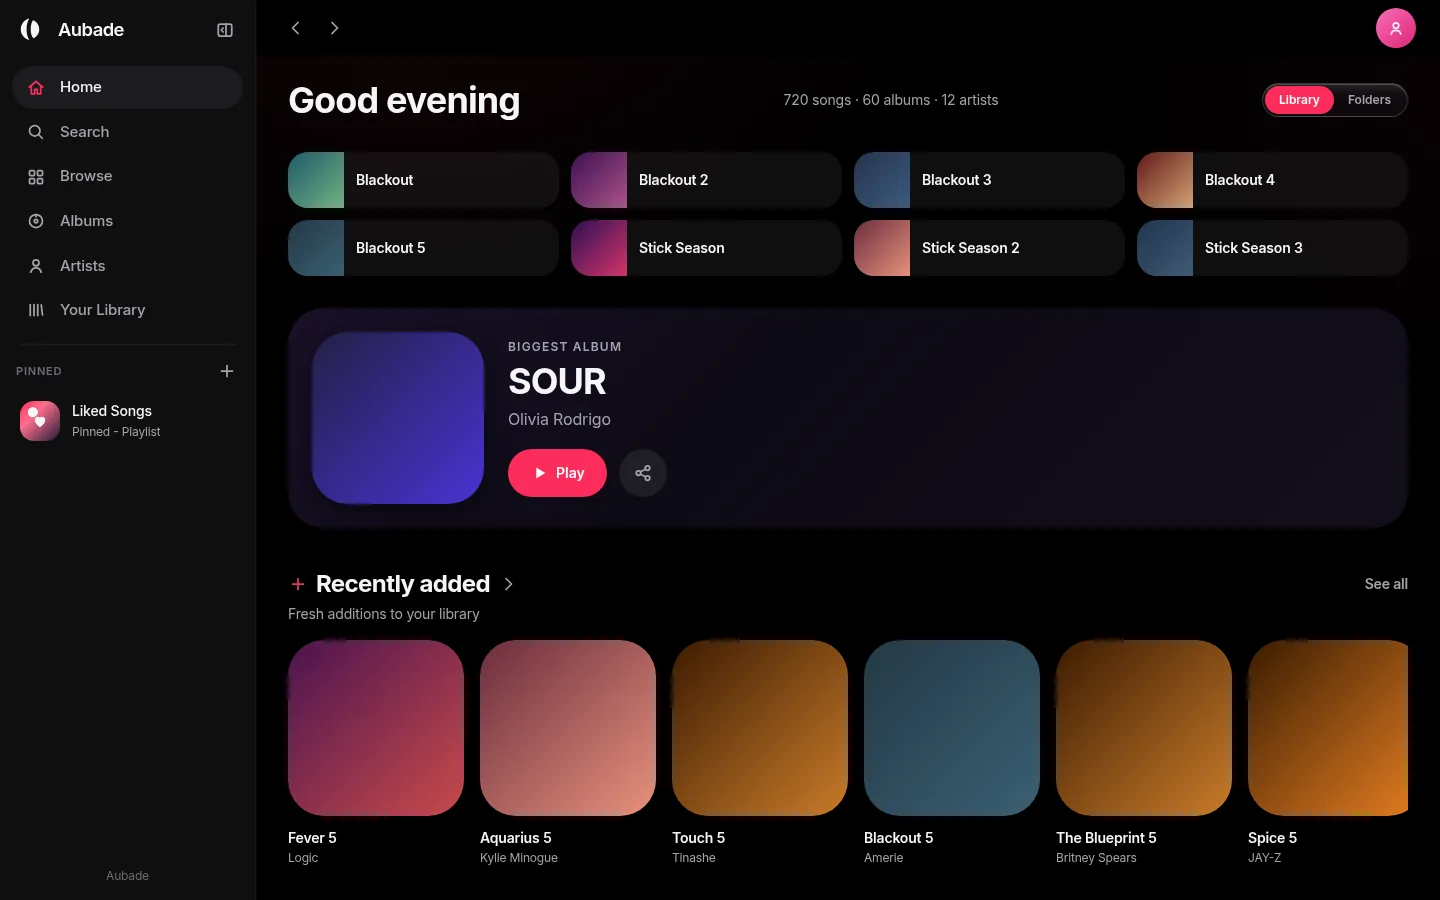
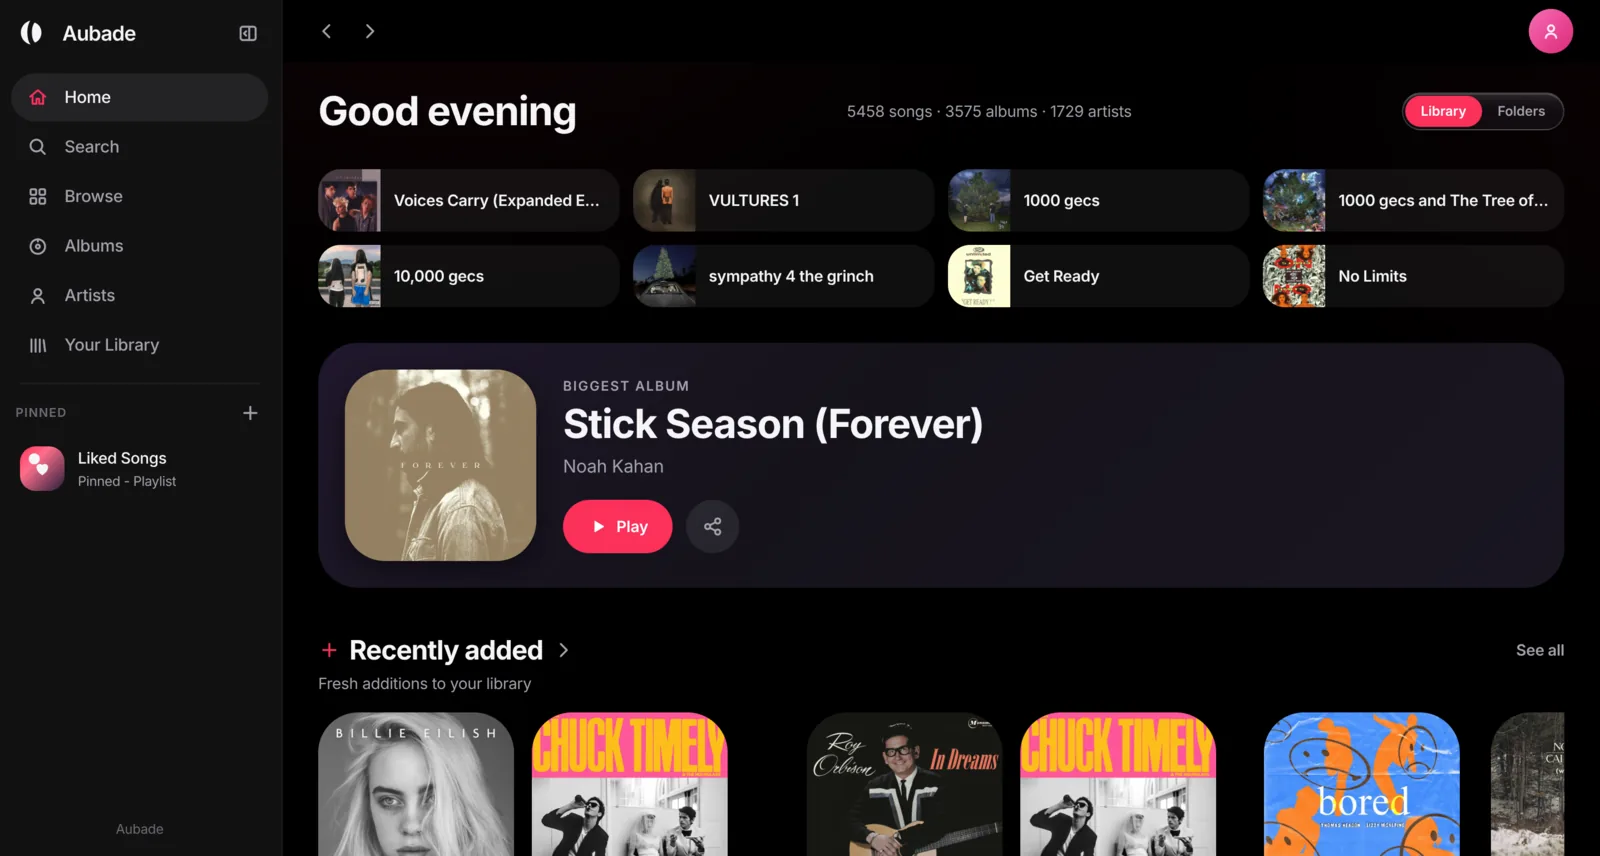
Real screenshots, a greeting that knows the time, mute, and targets a finger can hit
The screenshots are yours now — a real library with its own artwork instead
of sixty placeholder gradients. test/shots.js goes with them: a generated
shot is worse than a taken one here, so there is nothing to regenerate.

The greeting was a literal in the markup, reading 'Good evening' in a
screenshot taken at 07:46. Faking the clock against the reference returned
the same words at 00:30 and 22:30, so its greeting does not follow the
client clock and there were no boundaries to copy. verify-greeting holds
the conventional ones at seven hours of the day.

Both Volume buttons were markup only: the icon was drawn, the keyboard 'm'
worked, clicking did nothing. They mute now, from either place, and the icon
shows which state it is in. verify-controls covers the class of defect —
a dead control is invisible to a test that only asks whether things exist.

Touch targets: the first attempt gave each control an invisible 44px area
through ::after, which measured well and did not work; elementFromPoint
showed them clipped by scrolling ancestors and covered by the floating bars.
Growing the controls is visible on phones but verifiable.

Two of those were bugs rather than sizing. The hero card's share button is
48x48 in the stylesheet and rendered 20 wide, free to shrink as a flex item.
The library sort control carried six inline styles, so no stylesheet could
reach it, including the phone rules.

diff --git a/test/verify-controls.js b/test/verify-controls.js
@@ -1,0 +1,83 @@
+// Controls that exist but do nothing.
+//
+// Both Volume buttons shipped as markup: the icon was drawn, the keyboard
+// binding worked, and clicking either one did nothing. Nothing failed, no
+// error was logged, and every other suite passed — a dead control is
+// invisible to a test that only asks whether things are present.
+const { chromium } = require('playwright');
+const { PLAYER_URL, seed } = require('./lib/harness');
+
+(async () => {
+  const br = await chromium.launch();
+  const p = await br.newPage({ viewport: { width: 1440, height: 900 }, colorScheme: 'dark' });
+  const errs = [];
+  p.on('pageerror', (e) => errs.push(String(e).slice(0, 120)));
+  p.on('console', (m) => { if (m.type() === 'error') errs.push(m.text().slice(0, 120)); });
+
+  let bad = 0;
+  const check = (label, ok, detail = '') => {
+    console.log(`  ${ok ? 'OK  ' : 'FAIL'}  ${label}${detail ? '  — ' + detail : ''}`);
+    if (!ok) bad++;
+  };
+
+  await p.goto(PLAYER_URL, { waitUntil: 'networkidle' });
+  await seed(p);
+  await p.reload({ waitUntil: 'networkidle' });
+  await p.waitForTimeout(1200);
+
+  // The player bar only exists once something is playing, and nothing can
+  // play headlessly — the folder picker cannot be driven. Lifting is-idle is
+  // a concession to that: what is under test here is whether the buttons are
+  // wired, which has nothing to do with audio actually being decoded.
+  await p.evaluate(() => document.getElementById('app').classList.remove('is-idle'));
+  await p.waitForTimeout(300);
+
+  const state = () => p.evaluate(() => ({
+    muted: document.querySelector('audio').muted,
+    barIcon: document.getElementById('player-vol-btn').classList.contains('is-muted'),
+    npIcon: document.getElementById('np-vol-btn').classList.contains('is-muted'),
+    pressed: document.getElementById('player-vol-btn').getAttribute('aria-pressed'),
+    label: document.getElementById('player-vol-btn').getAttribute('aria-label'),
+  }));
+
+  const before = await state();
+  check('starts unmuted', before.muted === false && before.barIcon === false);
+
+  await p.click('#player-vol-btn');
+  await p.waitForTimeout(200);
+  const on = await state();
+  check('the player bar button mutes', on.muted === true, `muted=${on.muted}`);
+  check('and the icon says so', on.barIcon === true && on.pressed === 'true',
+    `is-muted=${on.barIcon} aria-pressed=${on.pressed} label="${on.label}"`);
+  check('and the now-playing icon agrees', on.npIcon === true);
+
+  await p.click('#player-vol-btn');
+  await p.waitForTimeout(200);
+  const off = await state();
+  check('clicking again unmutes', off.muted === false && off.barIcon === false);
+
+  // The now-playing sheet's own button drives the same audio element. It has
+  // to be opened first — the sheet hides with translateY, so the button is
+  // laid out but genuinely not clickable while it is closed.
+  await p.click('.player__icon-btn[aria-label="Expand now playing"]');
+  await p.waitForTimeout(500);
+  check('the now-playing sheet opens', await p.evaluate(() =>
+    document.querySelector('.now-playing').classList.contains('is-open')));
+  await p.click('#np-vol-btn');
+  await p.waitForTimeout(200);
+  const np = await state();
+  check('the now-playing button mutes too', np.muted === true && np.barIcon === true);
+
+  // The keyboard route must move the icon as well, or the two disagree.
+  await p.keyboard.press('m');
+  await p.waitForTimeout(200);
+  const key = await state();
+  check('the m key keeps the icon in step', key.muted === false && key.barIcon === false,
+    `muted=${key.muted} icon=${key.barIcon}`);
+
+  console.log(`\nerrors: ${errs.length ? errs.slice(0, 3).join(' | ') : 'none'}`);
+  if (errs.length) bad++;
+  await br.close();
+  console.log(bad === 0 ? 'every control checked here does something' : `${bad} check(s) failed`);
+  process.exit(bad ? 1 : 0);
+})().catch((e) => { console.error('FAILED: ' + e.message); process.exit(1); });

diff --git a/player.html b/player.html
@@ -196,7 +196,7 @@
             <div id="view-home">
               <!-- ── Greeting row ─────────────────────────────── -->
             <div class="greeting-row">
-              <h1 class="greeting-row__text">Good evening</h1>
+              <h1 class="greeting-row__text" id="greeting">Good evening</h1>
               <span id="folder-status" class="greeting-row__status"></span>
               <div class="seg-pill glass-strong">
                 <button id="seg-library" class="seg-pill__seg seg-pill__seg--active" type="button">Library</button>
@@ -552,7 +552,7 @@
                   <button class="seg-pill__seg" data-view="artists" type="button">Artists</button>
                   <button class="seg-pill__seg seg-pill__seg--active" data-view="songs" type="button">Songs</button>
                 </div>
-                <button class="seg-pill__seg glass-strong" id="lib-sort-btn" style="margin-inline-start: 12px; border-radius: 99px; block-size: 32px; padding: 0 16px; font-weight: 500; font-size: 13px;" type="button">Sort: Name</button>
+                <button class="seg-pill__seg seg-pill__seg--sort glass-strong" id="lib-sort-btn" type="button">Sort: Name</button>
               </div>
               <div id="lib-count-line" style="font-size: 14px; color: var(--text-muted); margin-block-end: 32px; padding-inline: 48px;"></div>
               
@@ -757,11 +757,13 @@
               <path d="M11.5 13h6" />
             </svg>
           </button>
-          <button class="player__icon-btn" type="button" aria-label="Volume">
+          <button class="player__icon-btn" id="player-vol-btn" type="button" aria-label="Volume">
             <svg aria-hidden="true" viewBox="0 0 20 20">
               <path d="M3.5 8v4h2.75l3.25 3V5L6.25 8H3.5Z" />
-              <path d="M12.5 7a4 4 0 0 1 0 6" />
-              <path d="M14.25 5a7 7 0 0 1 0 10" />
+              <path class="vol-wave" d="M12.5 7a4 4 0 0 1 0 6" />
+              <path class="vol-wave" d="M14.25 5a7 7 0 0 1 0 10" />
+              <path class="vol-slash" d="M12.5 7.25 17.5 12.75" fill="none"
+                    stroke="currentColor" stroke-width="1.6" stroke-linecap="round" />
             </svg>
           </button>
           <div class="player__vol-bar">
@@ -971,8 +973,9 @@
                 <button class="np-icon-btn" id="np-vol-btn" type="button" aria-label="Volume">
                   <svg viewBox="0 0 24 24" fill="none" stroke="currentColor" stroke-width="2" stroke-linecap="round" stroke-linejoin="round">
                     <polygon points="11 5 6 9 2 9 2 15 6 15 11 19 11 5"/>
-                    <path d="M19.07 4.93a10 10 0 0 1 0 14.14"/>
-                    <path d="M15.54 8.46a5 5 0 0 1 0 7.07"/>
+                    <path class="vol-wave" d="M19.07 4.93a10 10 0 0 1 0 14.14"/>
+                    <path class="vol-wave" d="M15.54 8.46a5 5 0 0 1 0 7.07"/>
+                    <path class="vol-slash" d="m15.5 9.5 6 5"/>
                   </svg>
                 </button>
                 <div class="np-vol-slider">

diff --git a/app.js b/app.js
@@ -974,6 +974,27 @@ uiVolBar.addEventListener('click', (e) => {
   uiVolFill.style.width = `${pct * 100}%`;
   uiVolKnob.style.left = `${pct * 100}%`;
 });
+// Both Volume buttons were markup only — the icon was drawn, the keyboard
+// binding worked, and clicking either one did nothing at all.
+const volButtons = [document.getElementById('player-vol-btn'),
+                    document.getElementById('np-vol-btn')].filter(Boolean);
+
+function syncMuted() {
+  for (const b of volButtons) {
+    b.classList.toggle('is-muted', audio.muted);
+    b.setAttribute('aria-pressed', String(audio.muted));
+    b.setAttribute('aria-label', audio.muted ? 'Unmute' : 'Mute');
+  }
+  uiVolBar?.classList.toggle('is-muted', audio.muted);
+}
+
+for (const b of volButtons) {
+  b.addEventListener('click', () => { audio.muted = !audio.muted; });
+}
+// Fires for muted as well as volume, so the keyboard route updates the icon too.
+audio.addEventListener('volumechange', syncMuted);
+syncMuted();
+
 // Init volume
 uiVolFill.style.width = `${audio.volume * 100}%`;
 uiVolKnob.style.left = `${audio.volume * 100}%`;
@@ -1072,12 +1093,33 @@ function handleRoute() {
     renderLibraryView();
   } else {
     viewHome.style.display = 'block';
+    setGreeting();
     const homeNav = document.querySelector('a[href="#home"]');
     if (homeNav) homeNav.classList.add('sidebar__nav-item--selected');
   }
 
   syncTabBar(hash);
 }
+
+// The greeting was a literal in the markup, so it read "Good evening" at
+// breakfast. The reference's own greeting does not follow the client clock —
+// it says the same thing at 04:00 and 22:00 — so there is nothing to copy
+// here and these are the conventional boundaries rather than measured ones.
+function setGreeting() {
+  const el = document.getElementById('greeting');
+  if (!el) return;
+  const h = new Date().getHours();
+  el.textContent = h < 5 ? 'Good evening'
+    : h < 12 ? 'Good morning'
+    : h < 17 ? 'Good afternoon'
+    : 'Good evening';
+}
+
+// A tab left open overnight would otherwise still be saying good evening at
+// breakfast, which is the same bug in slower motion.
+document.addEventListener('visibilitychange', () => {
+  if (!document.hidden) setGreeting();
+});
 
 // The rail marks itself per route in five places above. The docked bar has
 // four destinations covering many more routes than that, so it reads the hash

diff --git a/responsive.css b/responsive.css
@@ -220,6 +220,52 @@
     gap: 10px;
   }
 
+  /* ── Touch targets ───────────────────────────────────────────
+     These control sizes are the reference's, matched deliberately, and they
+     are sized for a cursor: the top-bar arrows are 32x32, the segmented pill
+     28 tall, the hero card's share button 20 wide. A fingertip wants about 44.
+
+     The first attempt gave each an invisible 44px hit area through ::after,
+     which measured beautifully and did not work: elementFromPoint showed the
+     expanded areas being clipped by scrolling ancestors and covered by the
+     floating bars. Growing the controls themselves is a visible change on
+     phones, but it is one that can be verified. */
+  .top-bar__btn,
+  .top-bar__avatar {
+    inline-size: 44px;
+    block-size: 44px;
+  }
+
+  /* 50 on the pill leaves each segment at exactly 44 once padding is taken. */
+  .seg-pill {
+    block-size: 50px;
+  }
+
+  .seg-pill__seg--sort {
+    block-size: 44px;
+  }
+
+  /* Not a sizing choice: shell.css says 48x48 and it renders 20 wide,
+     because as a flex item it was free to shrink. Same defect as the sync
+     pill, same fix — and holding its real width puts the row 5px past a
+     390px screen, so the play button's 22px of side padding gives some back.
+     The label is what that padding is around, and it has room to spare. */
+  .hero-card__share {
+    flex-shrink: 0;
+  }
+
+  .hero-card__play {
+    padding-inline: 16px;
+  }
+
+  .shelf__see-all {
+    padding-block: 10px;
+  }
+
+  .settings-btn {
+    block-size: 44px;
+  }
+
   /* ── Now playing ─────────────────────────────────────────────
      The desktop view is two columns — art and transport at the left, lyrics
      down the right — held apart by 96px of side padding. At 390 that padding

diff --git a/test/verify-greeting.js b/test/verify-greeting.js
@@ -1,0 +1,41 @@
+// The greeting was a literal in the markup, so the home page said "Good
+// evening" at breakfast — visible in a screenshot taken at 07:46.
+//
+// The reference's own greeting does not follow the client clock: faking the
+// time and reloading it returned the same words at 00:30 and 22:30, so there
+// were no boundaries to copy and these are the conventional ones.
+const { chromium } = require('playwright');
+const { PLAYER_URL, seed } = require('./lib/harness');
+
+const CASES = [
+  [8, 'Good morning'],
+  [11, 'Good morning'],
+  [12, 'Good afternoon'],
+  [16, 'Good afternoon'],
+  [17, 'Good evening'],
+  [23, 'Good evening'],
+  [2, 'Good evening'],
+];
+
+(async () => {
+  const br = await chromium.launch();
+  let bad = 0;
+  for (const [hour, expected] of CASES) {
+    const ctx = await br.newContext({ viewport: { width: 1440, height: 900 }, colorScheme: 'dark' });
+    await ctx.clock.setFixedTime(new Date(2026, 7, 18, hour, 30, 0));
+    const p = await ctx.newPage();
+    await p.goto(PLAYER_URL, { waitUntil: 'networkidle' });
+    await seed(p);
+    await p.reload({ waitUntil: 'networkidle' });
+    await p.waitForTimeout(800);
+    const said = await p.evaluate(() => document.getElementById('greeting').textContent.trim());
+    const ok = said === expected;
+    if (!ok) bad++;
+    console.log(`  ${ok ? 'OK  ' : 'FAIL'}  ${String(hour).padStart(2, '0')}:30 → "${said}"` +
+                (ok ? '' : `  (expected "${expected}")`));
+    await ctx.close();
+  }
+  await br.close();
+  console.log(bad === 0 ? 'the greeting follows the clock' : `${bad} hour(s) wrong`);
+  process.exit(bad ? 1 : 0);
+})().catch((e) => { console.error('FAILED: ' + e.message); process.exit(1); });

diff --git a/index.html b/index.html
@@ -146,10 +146,10 @@
              same fixture library the suites use. Nothing here is a mock-up. -->
         <div class="lp-shots">
           <figure class="lp-shot lp-shot--desktop">
-            <img src="shots/desktop.webp" width="1440" height="900" alt="Aubade on a desktop: a sidebar of albums and artists beside a home page of shelves." />
+            <img src="shots/desktop.webp" width="1600" height="856" alt="Aubade on a desktop: a sidebar of albums and artists beside a home page of quick links, a featured album and a shelf of recent additions." />
           </figure>
           <figure class="lp-shot lp-shot--phone">
-            <img src="shots/phone.webp" width="390" height="844" alt="Aubade on a phone: the same home page with a floating tab bar along the bottom." />
+            <img src="shots/phone.webp" width="446" height="964" alt="Aubade on a phone: the same home page in two columns, with a floating tab bar along the bottom." />
           </figure>
         </div>
       </section>

diff --git a/cross-cutting.css b/cross-cutting.css
@@ -43,3 +43,24 @@
   background: rgba(255, 255, 255, 0.24);
   color: var(--text);
 }
+
+
+/* ── Muted ────────────────────────────────────────────────────
+   Both Volume buttons shipped with the icon and no handler: the keyboard
+   'm' muted, clicking did nothing. Now that they work, the icon has to show
+   which state it is in — waves for sound, a stroke through for silence. */
+.vol-slash {
+  display: none;
+}
+
+.is-muted .vol-wave {
+  display: none;
+}
+
+.is-muted .vol-slash {
+  display: inline;
+}
+
+.player__vol-bar.is-muted {
+  opacity: 0.4;
+}

diff --git a/test/run.js b/test/run.js
@@ -19,7 +19,9 @@ const { ROOT, serveRepo } = require('./lib/harness');
 const SUITES = [
   ['verify-landing.js', 'the opening page'],
   ['verify-chrome.js', 'sidebar, navigation, menus'],
+  ['verify-greeting.js', 'the greeting follows the clock'],
   ['verify-keys.js', 'keyboard shortcuts'],
+  ['verify-controls.js', 'controls that exist but do nothing'],
   ['verify-menu.js', 'track and album overflow menus'],
   ['verify-liked.js', 'liked songs'],
   ['verify-playlists.js', 'create, add, remove, missing files'],

diff --git a/shell.css b/shell.css
@@ -444,6 +444,18 @@ a {
   border-radius: var(--radius-pill);
 }
 
+/* This sort control sat on the button as six inline styles, which meant no
+   stylesheet could touch it — including the phone rules, which is how it
+   stayed 32px tall on touch. */
+.seg-pill__seg--sort {
+  margin-inline-start: 12px;
+  block-size: 32px;
+  padding: 0 16px;
+  border-radius: 99px;
+  font-size: 13px;
+  font-weight: 500;
+}
+
 .seg-pill__seg {
   block-size: 100%;
   padding-inline: 14px;

diff --git a/landing.css b/landing.css
@@ -464,6 +464,13 @@
     display: none;
   }
 
+  /* The header's call to action is 36 tall on a desktop, which is a cursor
+     size. It is the only control on the page up here, so it can simply grow
+     rather than needing a hidden hit area. */
+  .lp-nav .lp-btn {
+    padding-block: 12px;
+  }
+
   .lp-hero {
     padding-block: 120px 64px;
   }

diff --git a/README.md b/README.md
@@ -14,7 +14,7 @@ through the browser and keeps its index in local storage.
 Plain HTML, CSS and JavaScript. No framework, no build step, no dependencies.
 
 ![Aubade on a desktop: a sidebar of albums and artists beside a home page of
-shelves, with a hero card for the largest album.](shots/desktop.webp)
+quick links, a featured album and a shelf of recent additions.](shots/desktop.webp)
 
 ## Running it
 
@@ -142,10 +142,10 @@ They seed a fixture library straight into IndexedDB rather than indexing a
 folder, because the folder picker cannot be driven headlessly — and the tag
 reader is not what these are testing.
 
-`node test/shots.js` regenerates the two screenshots on the opening page. They
-are the real app photographed at 1440 and 390 against that same fixture
-library, so they go stale when the app changes. It needs ImageMagick for the
-WebP conversion; nothing else here does.
+The screenshots in `shots/` are taken by hand, from a real library rather than
+the fixture one — 5,458 songs with their own artwork, which is what the app
+actually looks like in use. There is no script for them: a generated shot
+shows sixty placeholder gradients and undersells the thing.
 
 Design values are taken from the reference's own stylesheet and from
 `getComputedStyle` on the running site — never estimated from screenshots.
